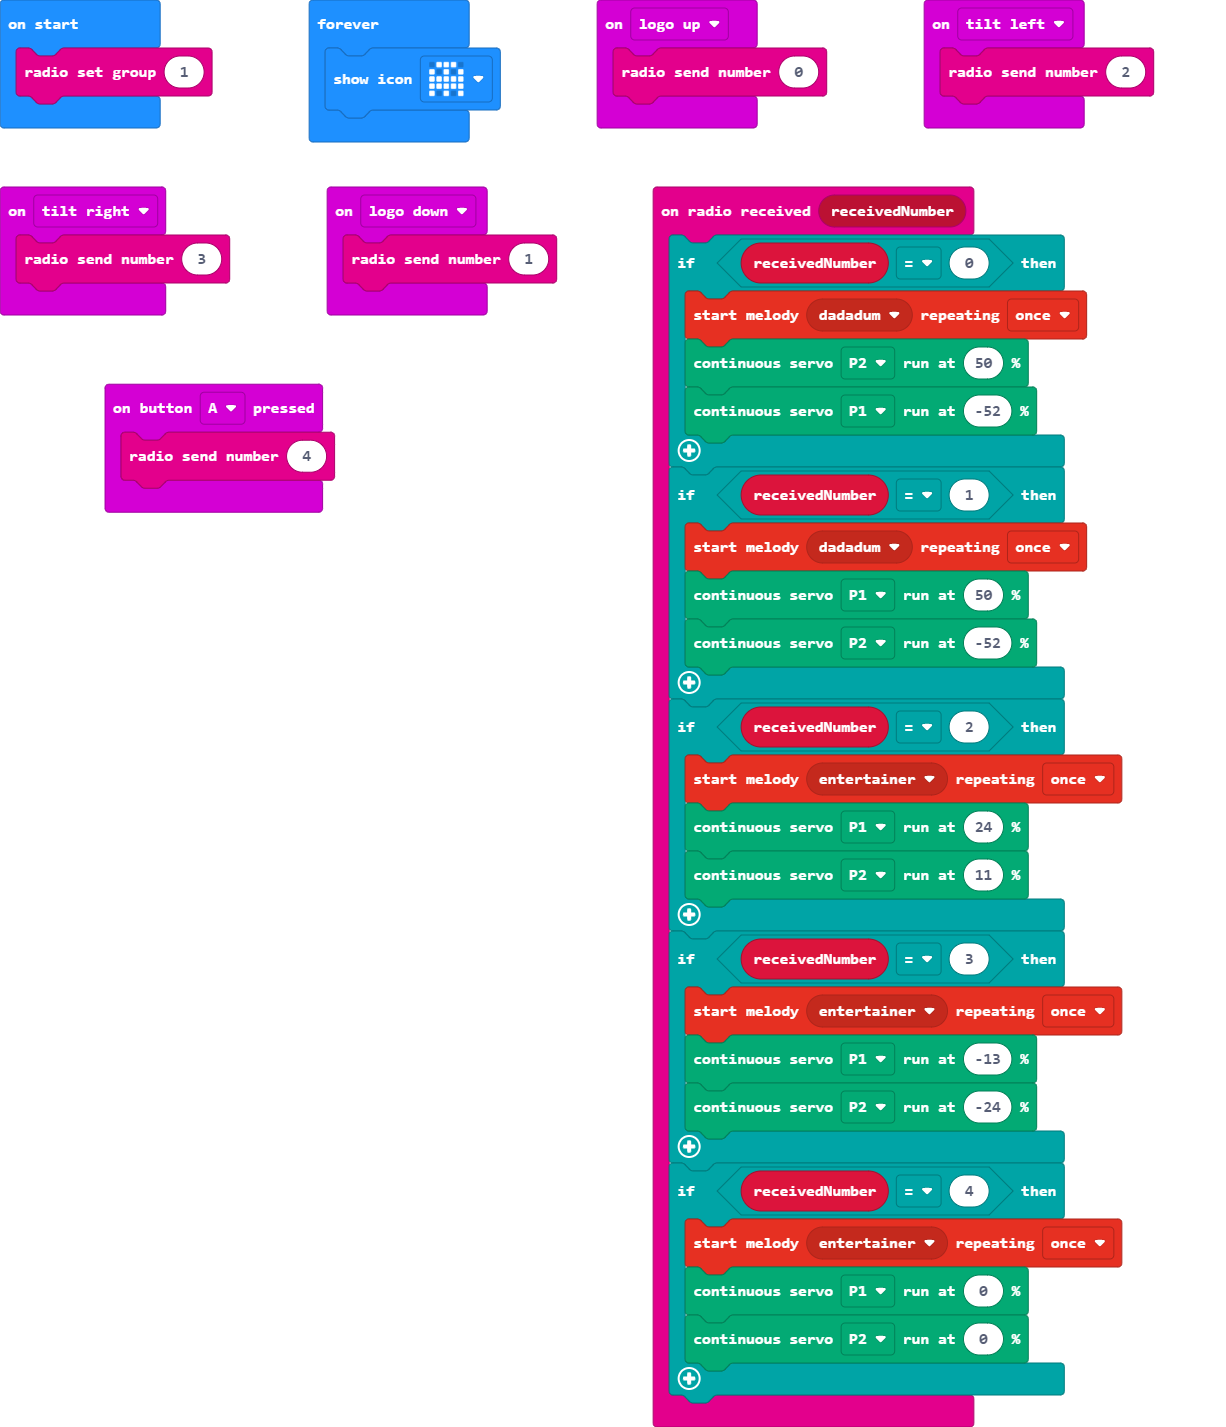
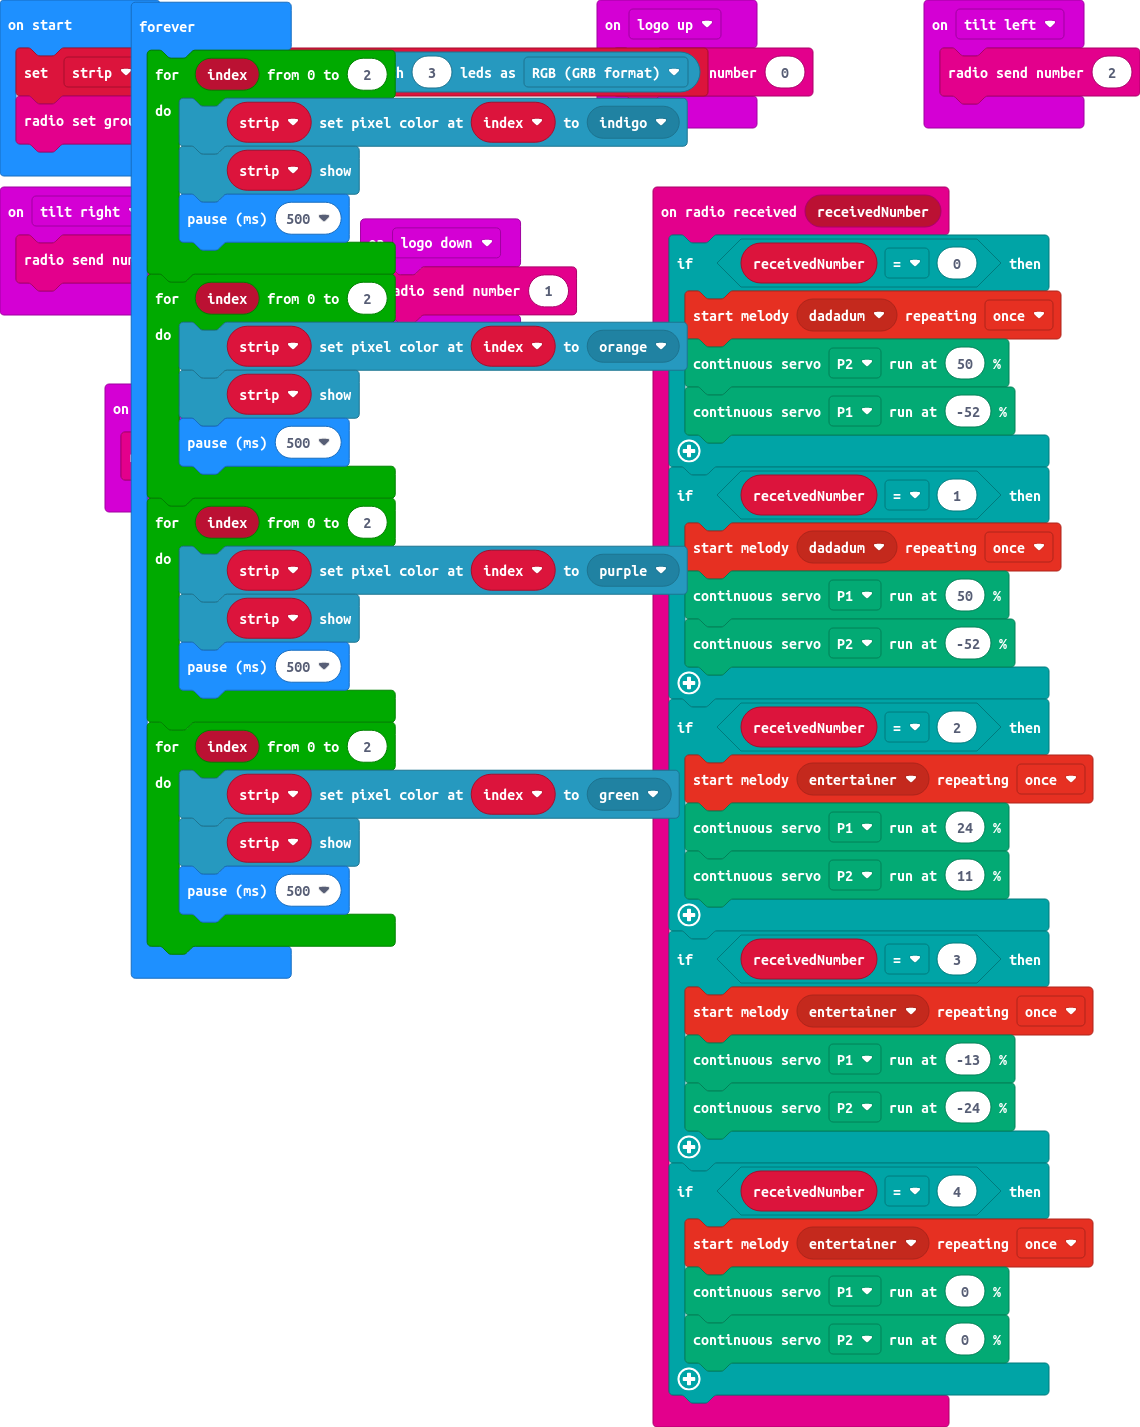
Update pxt.json, main.blocks, main.ts

diff --git a/main.ts b/main.ts
@@ -40,7 +40,27 @@ input.onGesture(Gesture.TiltRight, function () {
 input.onGesture(Gesture.LogoDown, function () {
     radio.sendNumber(1)
 })
+let strip = neopixel.create(DigitalPin.P0, 3, NeoPixelMode.RGB)
 radio.setGroup(1)
 basic.forever(function () {
-    basic.showIcon(IconNames.Ghost)
+    for (let index = 0; index <= 2; index++) {
+        strip.setPixelColor(index, neopixel.colors(NeoPixelColors.Indigo))
+        strip.show()
+        basic.pause(500)
+    }
+    for (let index = 0; index <= 2; index++) {
+        strip.setPixelColor(index, neopixel.colors(NeoPixelColors.Orange))
+        strip.show()
+        basic.pause(500)
+    }
+    for (let index = 0; index <= 2; index++) {
+        strip.setPixelColor(index, neopixel.colors(NeoPixelColors.Purple))
+        strip.show()
+        basic.pause(500)
+    }
+    for (let index = 0; index <= 2; index++) {
+        strip.setPixelColor(index, neopixel.colors(NeoPixelColors.Green))
+        strip.show()
+        basic.pause(500)
+    }
 })
